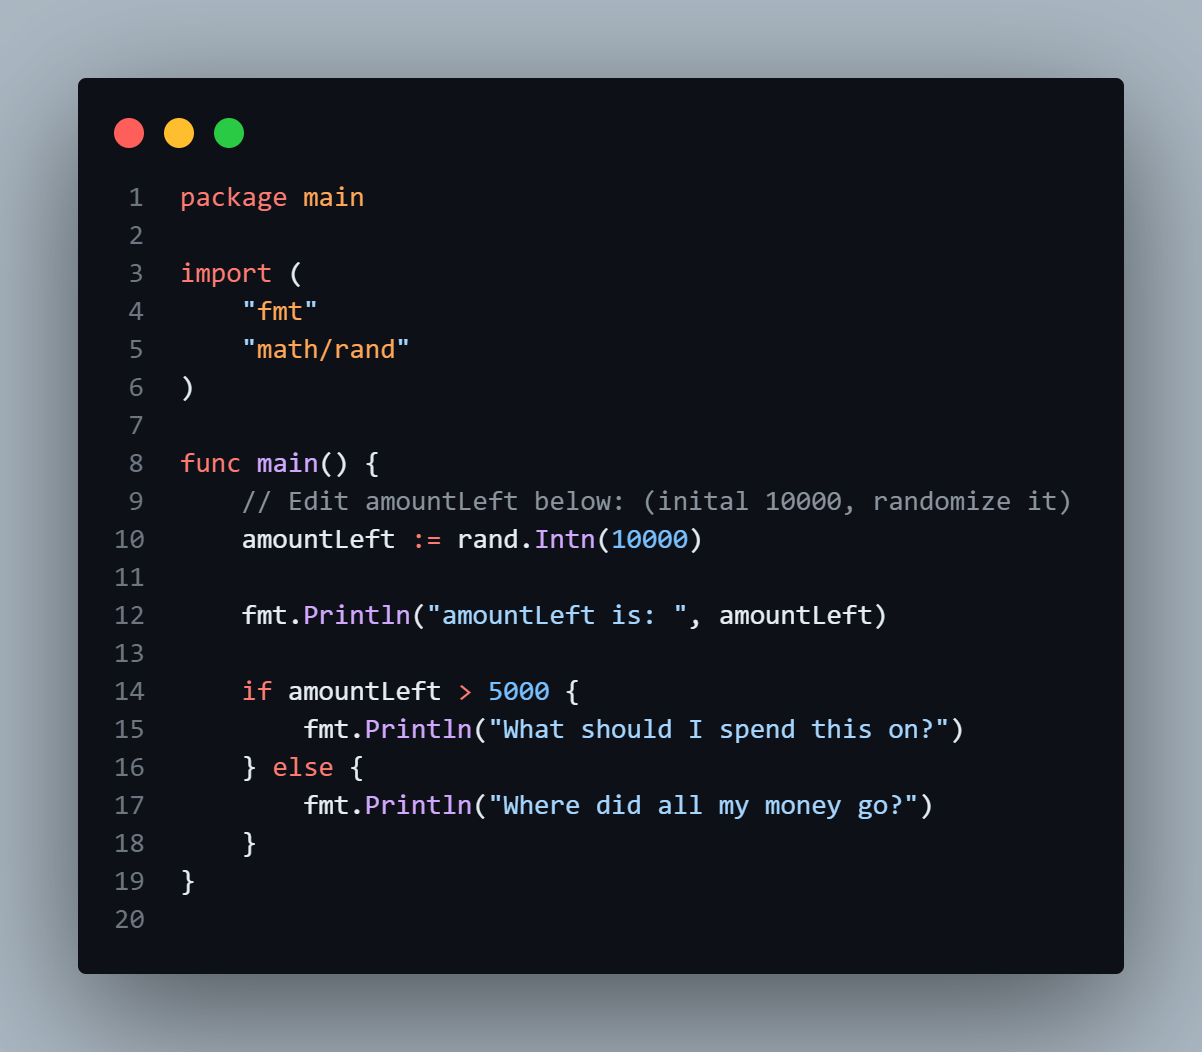
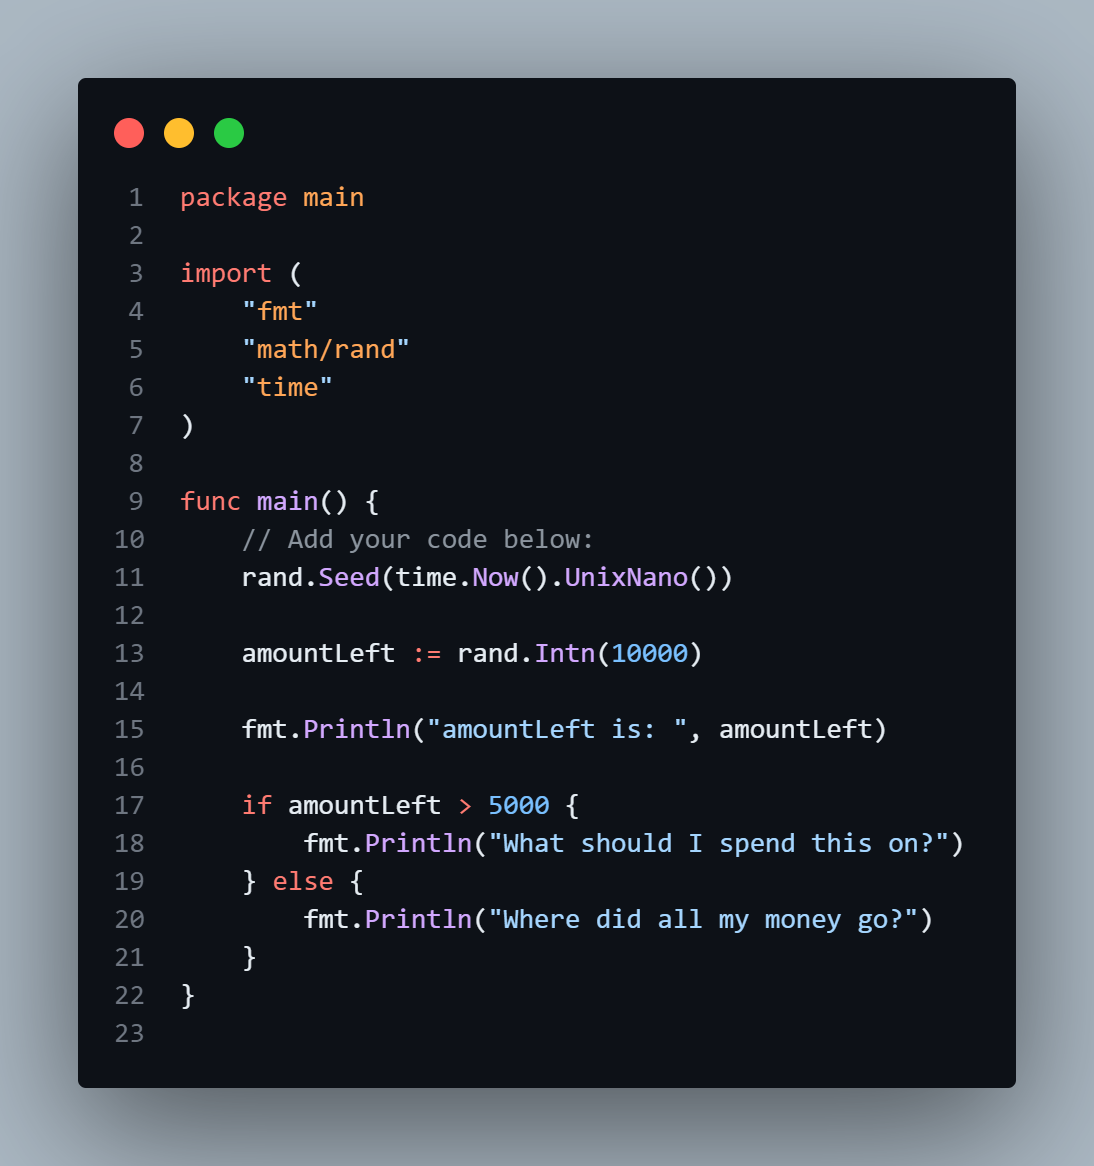
v0.0034
learning Go (true randomness with Seed())

diff --git a/Codeacademy-2024/Go/go/src/examples/ex34.go b/Codeacademy-2024/Go/go/src/examples/ex34.go
@@ -1,0 +1,22 @@
+package main
+
+import (
+	"fmt"
+	"math/rand"
+	"time"
+)
+
+func main() {
+	// Add your code below:
+	rand.Seed(time.Now().UnixNano())
+
+	amountLeft := rand.Intn(10000)
+
+	fmt.Println("amountLeft is: ", amountLeft)
+
+	if amountLeft > 5000 {
+		fmt.Println("What should I spend this on?")
+	} else {
+		fmt.Println("Where did all my money go?")
+	}
+}
